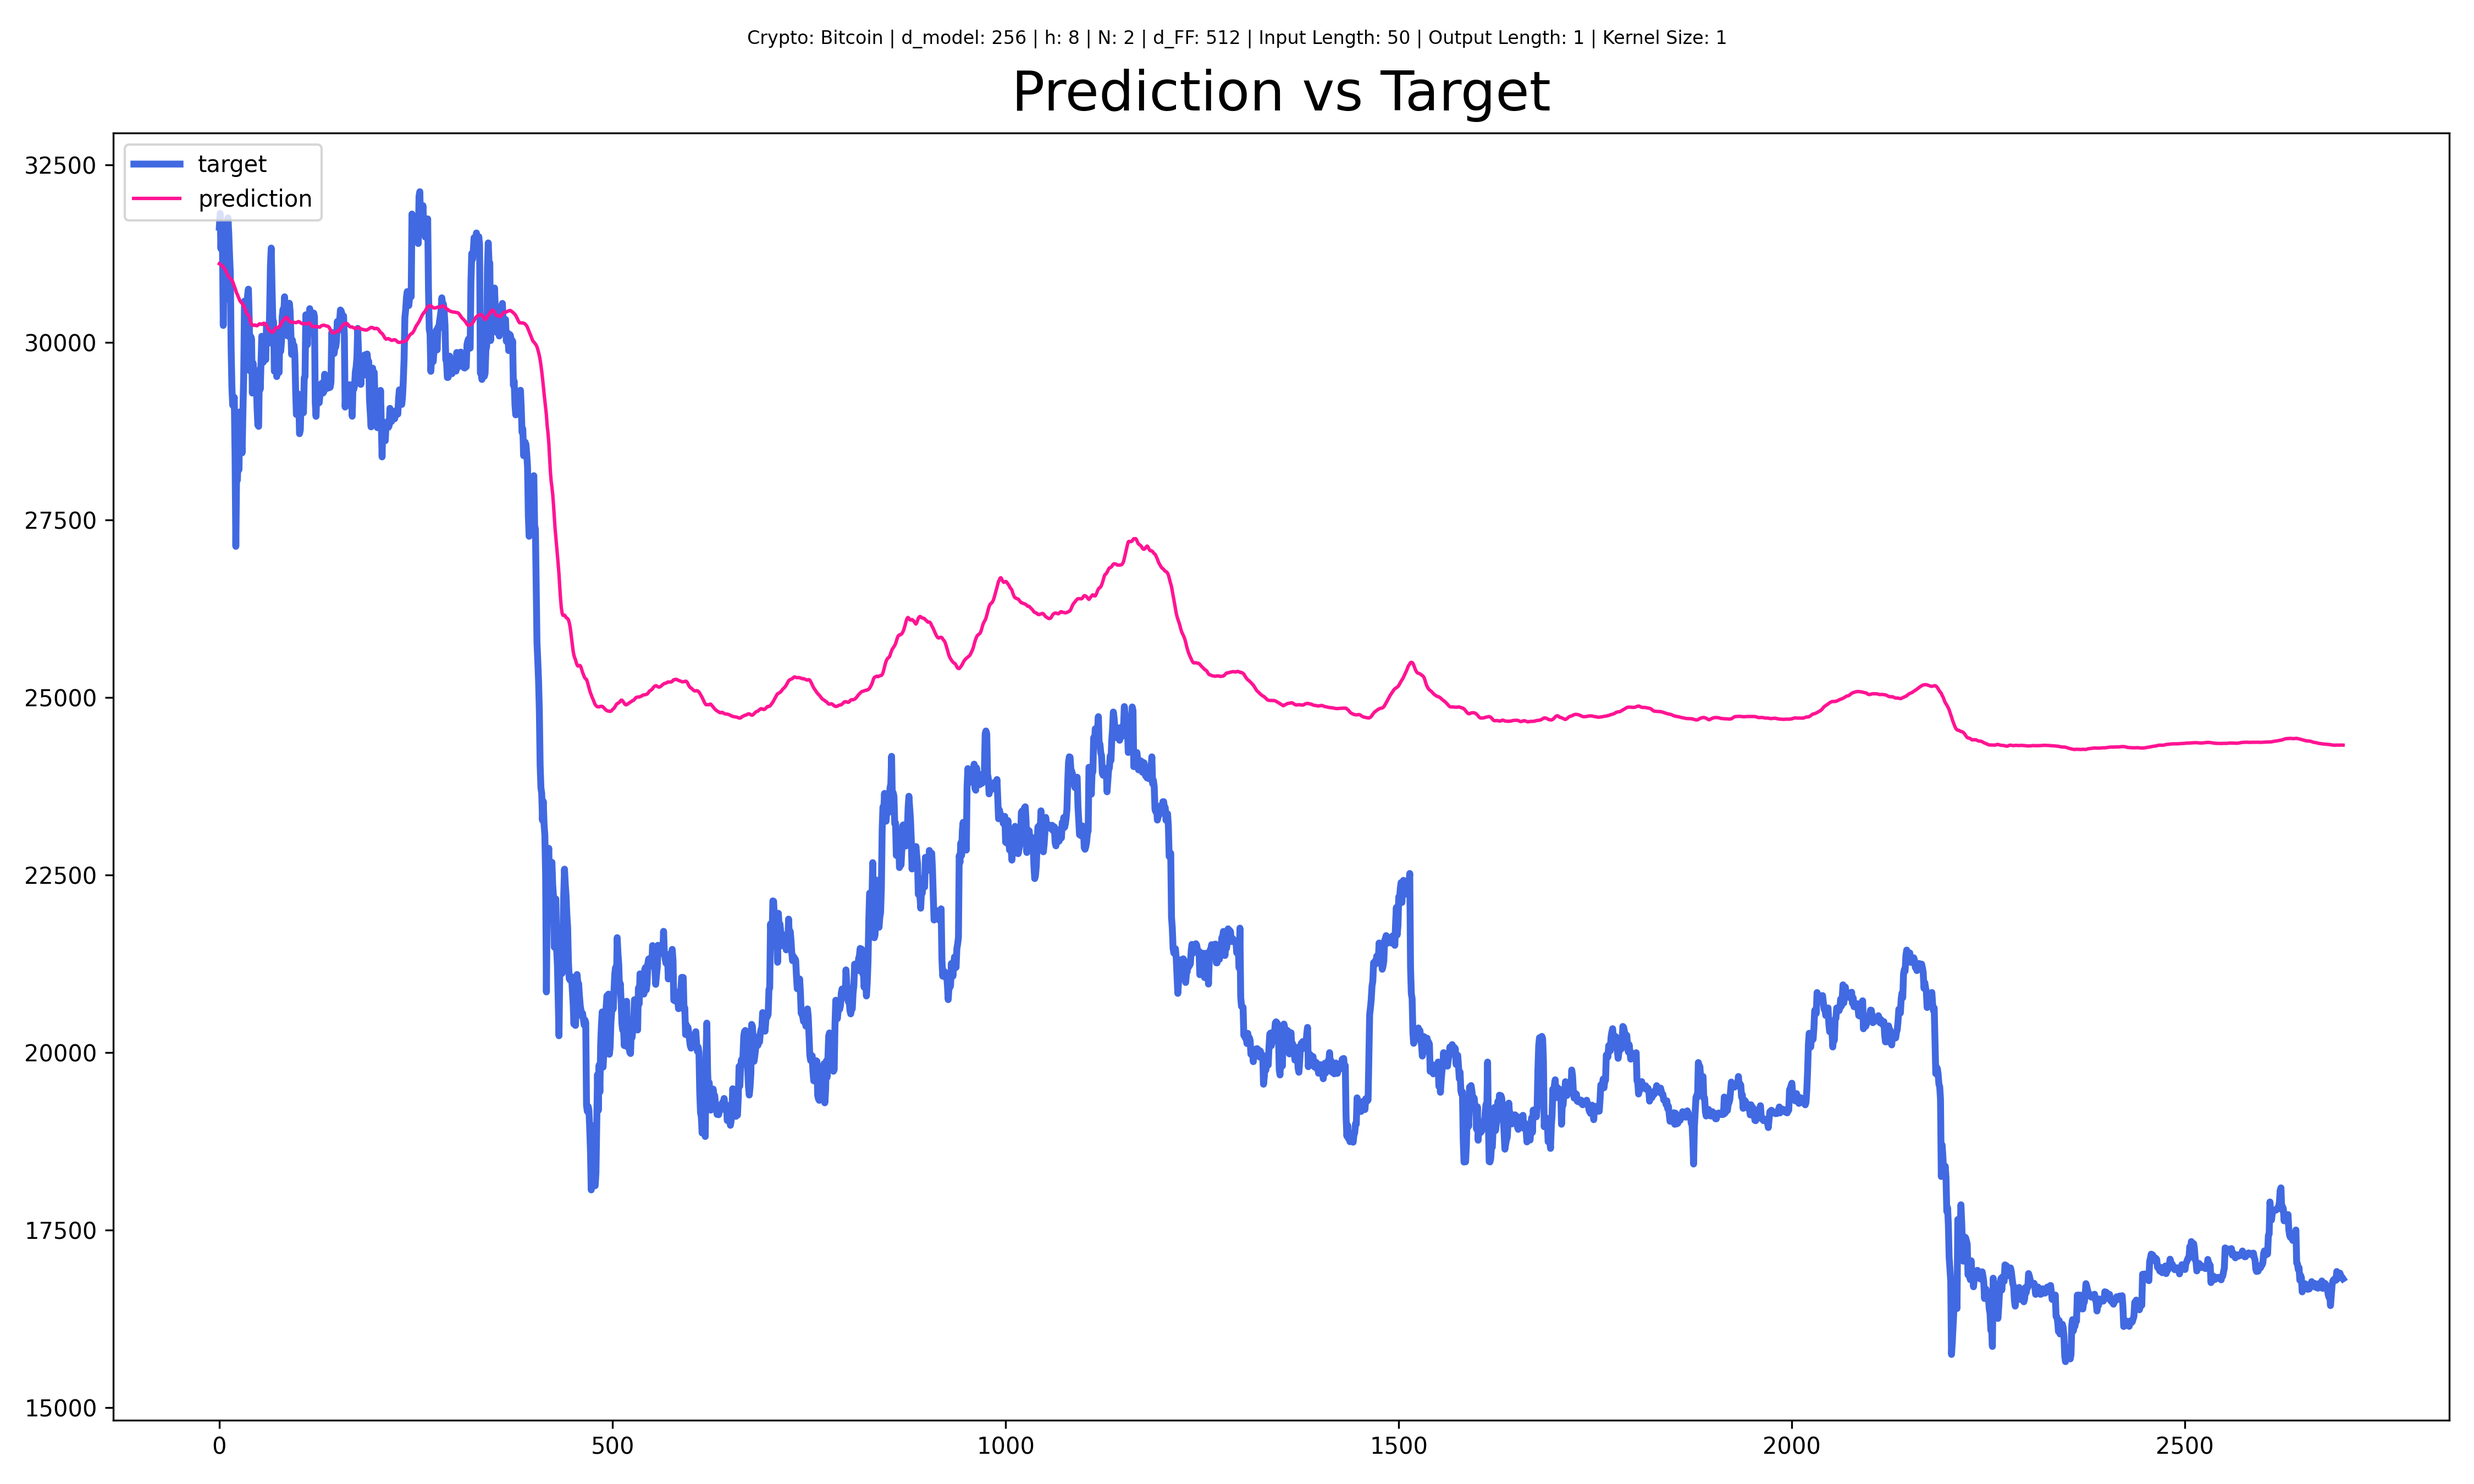
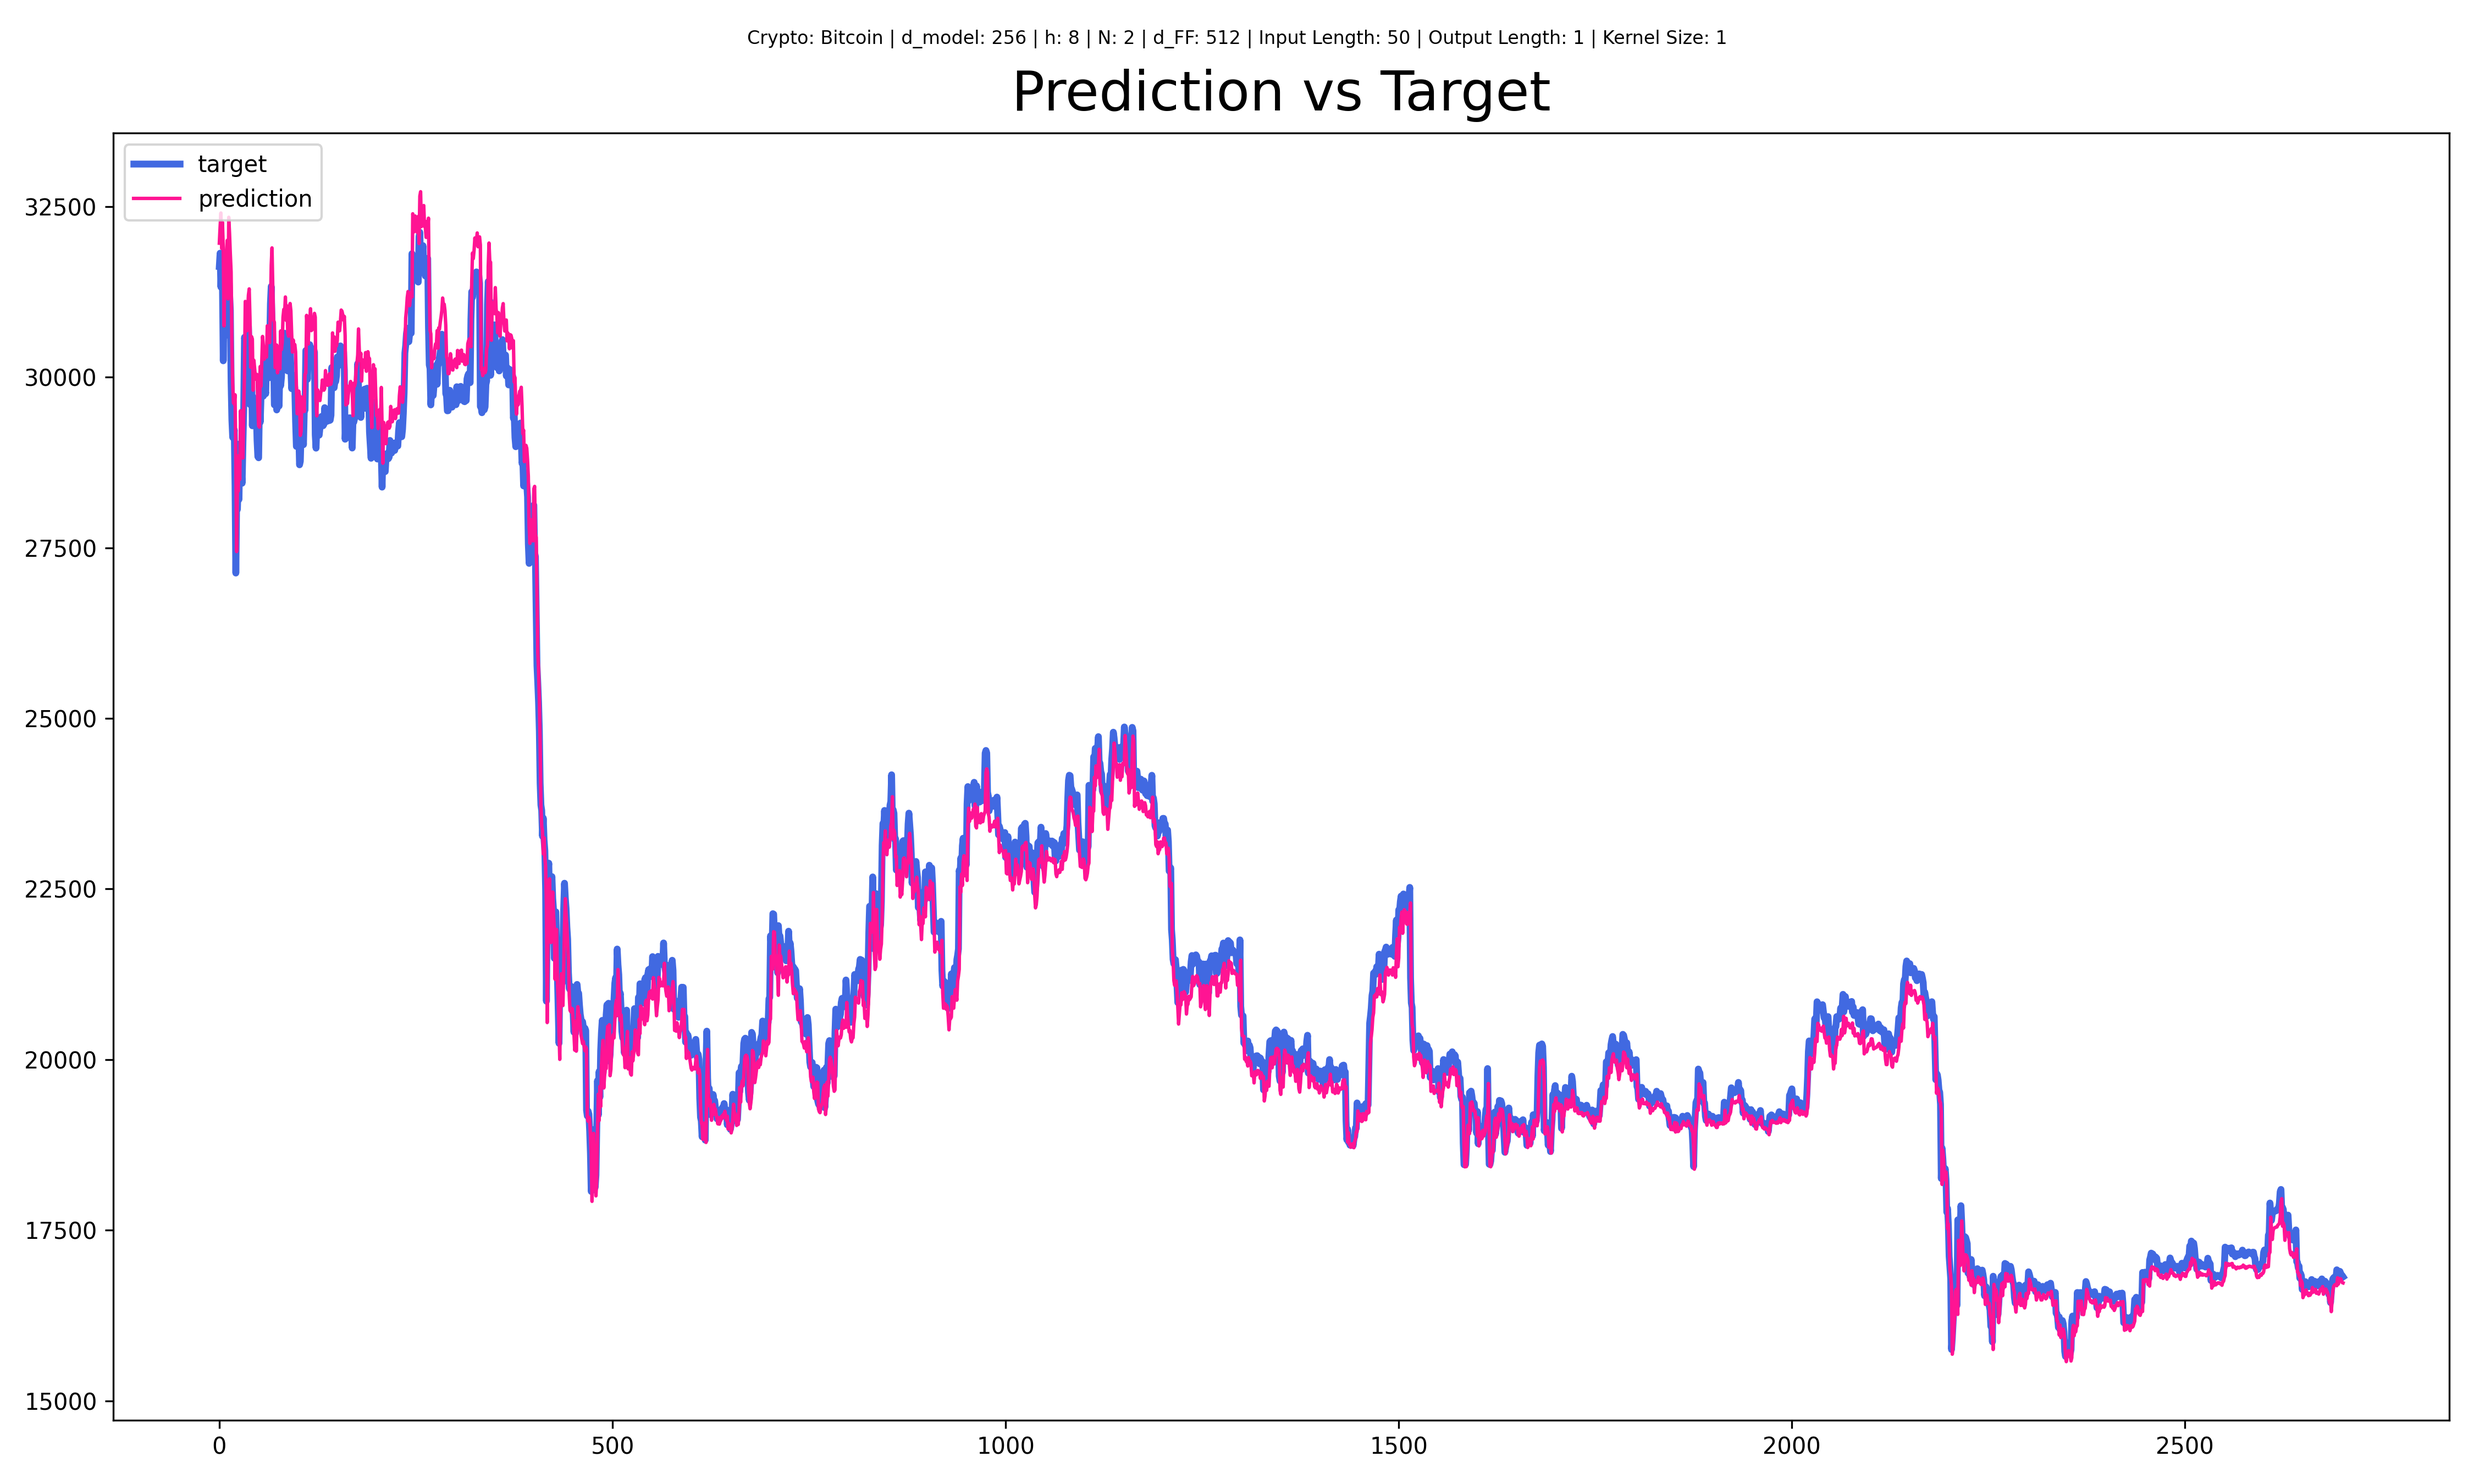
Best Model So Far. Results Included.

diff --git a/Transformer/Transformer.py b/Transformer/Transformer.py
@@ -168,7 +168,7 @@ class FeedForward(nn.Module):
         if network_type=='CNN':
             assert kernel_size%2==1, 'Kernel Size must be odd number'
 
-            padding_mode='replicate' # [zeros, replicate, circular]
+            padding_mode='zeros'
             self.feed_forward_network=nn.Sequential(
                 nn.Conv1d(
                     in_channels=d_model,
@@ -204,8 +204,6 @@ class FeedForward(nn.Module):
                     padding=(kernel_size-1)//2,
                     padding_mode=padding_mode
                     )
-                # TODO:
-                # test different padding modes
                 )
         else:
             self.feed_forward_network=nn.Sequential(
@@ -303,8 +301,13 @@ class Transformer(nn.Module):
         ])
         self.mask_decoder=self.generate_mask(max_seqlen_decoder)
 
-        self.linear_final=nn.Linear(d_model, d_model)
-        self.pooling_final=nn.AvgPool1d(d_model)
+        self.conv_final=nn.Conv1d(d_model, 
+                                    d_FF, 
+                                    kernel_size, 
+                                    padding=(kernel_size-1)//2, 
+                                    padding_mode='zeros'
+                                    )
+        self.pooling_final=nn.AvgPool1d(d_FF)
         
     def generate_mask(self, seqlen):
         neg_inf=torch.ones((1, 1, seqlen, seqlen))*-1e20
@@ -325,7 +328,8 @@ class Transformer(nn.Module):
         for decoder in self.decoder_stack:
             out_decoder=decoder(out_decoder, out_encoder, self.mask_decoder)
 
-        return self.pooling_final(self.linear_final(out_decoder))
+        return self.pooling_final(self.conv_final(out_decoder.transpose(-1,-2)).transpose(-1,-2))
+        
     
 
 

diff --git a/Transformer/GridSearchOptimization.py b/Transformer/GridSearchOptimization.py
@@ -2,13 +2,12 @@ from Preprocessing import data_wrangling
 from Train import train_model
 from Test import test_model
 from Utils import rmse
-
 from torch import sin
 
 grid = [
     {
         'd_model': 256, 'h': 8, 'N': 2, 'd_FF': 512,
-        'seqlen_encoder': 50, 'seqlen_decoder': 1, 'kernel_size': 1
+        'seqlen_encoder': 50, 'seqlen_decoder': 1, 'kernel_size': 3
         },
         # {
         # 'd_model': , 'h': , 'N': , 'd_FF': ,
@@ -24,16 +23,16 @@ f=sin
 p=0.1
 network_type='CNN'
 
-epoch_number=2
+epoch_number=300
 batch_size=128
 loss_function=rmse
 lr_config={
-            'low': 1e-4,
-            'high': 1e-4,
-            'percentage_to_fall_down': 0.02,
-            'percentage_to_rest': 0.9,
-            'linearity': 'linear'
-            }
+    'high': 1e-4,
+    'low': 1e-5,
+    'percentage_to_fall_down': 0.02,
+    'percentage_to_rest': 0.5,
+    'linearity': 'cos'
+    }
 
 for grid_node in grid:
     d_model=grid_node['d_model']
@@ -55,7 +54,7 @@ for grid_node in grid:
 
     print('The Test Has Just Begun!')
     test_model(crypto_name, d_model, h, N, d_FF, seqlen_encoder, seqlen_decoder, 
-                kernel_size, batch_size*4
+                kernel_size, batch_size*4, note='ّIni ke alan hast'
                 )
 
     print(f'\nGrid Node: {str(grid_node)[1:-1]} has been completed!\n')

diff --git a/Transformer/Train.py b/Transformer/Train.py
@@ -76,6 +76,11 @@ def train_model(
     # Rescaling target data
     all_targets=crypto_prices[:, seqlen_encoder:].contiguous().squeeze()
     all_targets=Utils.rescale(all_targets, 'Std', crypto_name)
+    crypto_prices_dataloader = DataLoader(
+        crypto_prices, 
+        batch_size,
+        generator=torch.Generator(device)
+    )
     
     # ===============================================
     # * Learning:
@@ -104,14 +109,6 @@ def train_model(
             epoch, linearity
             )
         optimizer.param_groups[0]['lr']=lr
-
-        # Shuffling data (because torch cannot do it properly!) and making the dataloader
-        crypto_prices=crypto_prices[:, torch.randperm(crypto_prices.shape[1])]
-        crypto_prices_dataloader = DataLoader(
-            crypto_prices, 
-            batch_size,
-            generator=torch.Generator(device)
-            )
         
         for batch in tqdm(crypto_prices_dataloader):
             inputs=batch[:, 0:seqlen_encoder]

diff --git a/Transformer/Utils.py b/Transformer/Utils.py
@@ -24,7 +24,7 @@ def lr_function(
             b=up - m*epoch_number*percentage_to_fall_down
             return m*epoch+b
         else:
-            return 0.5*(1+1*np.sin(np.pi * epoch/epoch_number))*up + low
+            return 0.5*(1+1.1*np.cos(np.pi * epoch/epoch_number))*up+low
         # TODO: change coeffiecnts of above formula
 
 # ===================================================================================================
@@ -147,7 +147,7 @@ def plot_prediction_test(
 
 def save_results(
     crypto_name, d_model, h, N, d_FF, seqlen_encoder, seqlen_decoder, kernel_size,
-    rmse, mse, mae, mape, r2, accuracy
+    rmse, mse, mae, mape, r2, accuracy, note
     ):
 
     new_row=pd.DataFrame(
@@ -166,6 +166,7 @@ def save_results(
             'MAPE': [mape],
             'R2': [r2],
             'Accuracy': [accuracy],
+            'Notes': [note],
             'DateTime': [datetime.now()],
             }
         )

diff --git a/Transformer/EverythingElse/LearningRate.py b/Transformer/EverythingElse/LearningRate.py
@@ -10,15 +10,15 @@ def lr_function(low, up, epoch_number, percentage_to_fall_down, percentage_to_re
         # m = (up-low)/(epoch_number*percentage_to_fall_down - epoch_number*percentage_to_rest)
         # b = up - m*epoch_number*percentage_to_fall_down
         # return m*epoch+b
-        return 1.5*(1-np.sin(np.pi * epoch/epoch_number))*up+low
+        return 0.5*(1+np.cos(np.pi * epoch/epoch_number))*up+low
 
-epoch_number = 500
+epoch_number = 250
 epochs = np.array(range(1,epoch_number+1))
 lrs = np.array([])
-low = 1e-4
-up = 1e-2
-percentage_to_fall_down = 0.10
-percentage_to_rest = 0.70
+low = 1e-6
+up = 1e-4
+percentage_to_fall_down = 0.02
+percentage_to_rest = 0.9
 
 for epoch in epochs:
     lrs = np.append(lrs, lr_function(
@@ -26,5 +26,7 @@ for epoch in epochs:
     ))
     
 plt.plot(epochs, lrs)
+plt.savefig('Achievements/Learning Rate.png', dpi=300)
 plt.show()
+plt.close()
 

diff --git a/Transformer/Test.py b/Transformer/Test.py
@@ -7,7 +7,7 @@ from tqdm import tqdm
 
 def test_model(
     crypto_name, d_model, h, N, d_FF, seqlen_encoder, seqlen_decoder, kernel_size,
-    batch_size
+    batch_size, note
     ):
     
     if torch.cuda.is_available():
@@ -68,7 +68,7 @@ def test_model(
         Utils.save_results(
             crypto_name, d_model, h, N, d_FF, 
             seqlen_encoder, seqlen_decoder, kernel_size, 
-            rmse, mse, mae, mape, r2, accuracy
+            rmse, mse, mae, mape, r2, accuracy, note
             )
 
         model_specs_file_name=(f'{crypto_name},{d_model},{h},{N},{d_FF},'
